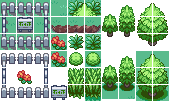
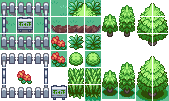
Add none-squared texture support for to tiles

Changed region(s): [[0.5917, 0.505, 1.0, 0.9802]]

diff --git a/PokeSi/Map/Tiles/AnimatedTile.cs b/PokeSi/Map/Tiles/AnimatedTile.cs
@@ -45,6 +45,16 @@ namespace PokeSi.Map.Tiles
             AnimationPlayer.Draw(gameTime, spriteBatch, destinationRect, Color.White);
         }
 
+        public override Rectangle GetDestinationRect(int x, int y)
+        {
+            return DrawHelper.ExtendToContain(new Rectangle(x * Tile.Width - AnimationPlayer.CurrentSprite.Origin.X,
+                                                            y * Tile.Height - AnimationPlayer.CurrentSprite.Origin.Y,
+                                                            AnimationPlayer.CurrentSprite.Width,
+                                                            AnimationPlayer.CurrentSprite.Height),
+                                            new Rectangle(0, 0, Tile.Width, Tile.Height),
+                                            AnimationPlayer.CurrentSprite.Origin.X, AnimationPlayer.CurrentSprite.Origin.Y);
+        }
+
         public override Form GetEditingForm()
         {
             Form result = base.GetEditingForm();

diff --git a/PokeSi/DrawHelper.cs b/PokeSi/DrawHelper.cs
@@ -26,6 +26,19 @@ namespace PokeSi
             return toClamp;
         }
 
+        public static Rectangle ExtendToContain(Rectangle toExtend, Rectangle toContain, int centerX = 0, int centerY = 0)
+        {
+            float horizontalRatio = toContain.Width / toExtend.Width;
+            float verticalRatio = toContain.Height / toExtend.Height;
+            float ratio = Math.Max(horizontalRatio, verticalRatio);
+            Rectangle result = toExtend;
+            result.X -= (int)(centerX * (ratio - 1));
+            result.Y -= (int)(centerY * (ratio - 1));
+            result.Width = (int)(toExtend.Width * ratio);
+            result.Height = (int)(toExtend.Height * ratio);
+            return result;
+        }
+
         public static Vector2 ClampVector(Vector2 toClamp, Vector2 min, Vector2 max)
         {
             float xMin = Math.Min(min.X, max.X);

diff --git a/PokeSi/Map/Tiles/Tile.cs b/PokeSi/Map/Tiles/Tile.cs
@@ -16,7 +16,6 @@ namespace PokeSi.Map.Tiles
         public readonly static int Width = 32;
         public readonly static int Height = 32;
 
-        public static SpriteSheet TileSheet { get; private set; }
         public static Dictionary<string, Tile> UnLocatedTile;
         private static bool hasLoaded = false;
 
@@ -107,6 +106,11 @@ namespace PokeSi.Map.Tiles
         public virtual void Save(XmlDocument doc, XmlElement parent, World world)
         {
 
+        }
+
+        public virtual Rectangle GetDestinationRect(int x, int y)
+        {
+            return new Rectangle(x * Tile.Width, y * Tile.Height, Tile.Width, Tile.Height);
         }
 
         public virtual Form GetEditingForm()

diff --git a/PokeSi/Map/Tiles/DecorativeTile.cs b/PokeSi/Map/Tiles/DecorativeTile.cs
@@ -39,6 +39,13 @@ namespace PokeSi.Map.Tiles
             spriteBatch.Draw(Sprite.Sheet.Texture, destinationRect, Sprite.SourceRect, Color.White);
         }
 
+        public override Rectangle GetDestinationRect(int x, int y)
+        {
+            return DrawHelper.ExtendToContain(new Rectangle(x * Tile.Width - Sprite.Origin.X, y * Tile.Height - Sprite.Origin.Y, Sprite.Width, Sprite.Height),
+                                            new Rectangle(0, 0, Tile.Width, Tile.Height),
+                                            Sprite.Origin.X, Sprite.Origin.Y);
+        }
+
         public override Form GetEditingForm()
         {
             Form result = base.GetEditingForm();

diff --git a/PokeSi/Map/World.cs b/PokeSi/Map/World.cs
@@ -83,7 +83,7 @@ namespace PokeSi.Map
                 for (int x = 0; x < Width; x++)
                 {
                     Tile tile = Tiles[x, y];
-                    tile.Draw(gameTime, spriteBatch, x, y, new Rectangle(x * Tile.Width, y * Tile.Height, Tile.Width, Tile.Height));
+                    tile.Draw(gameTime, spriteBatch, x, y, tile.GetDestinationRect(x, y));
                 }
             }
 
